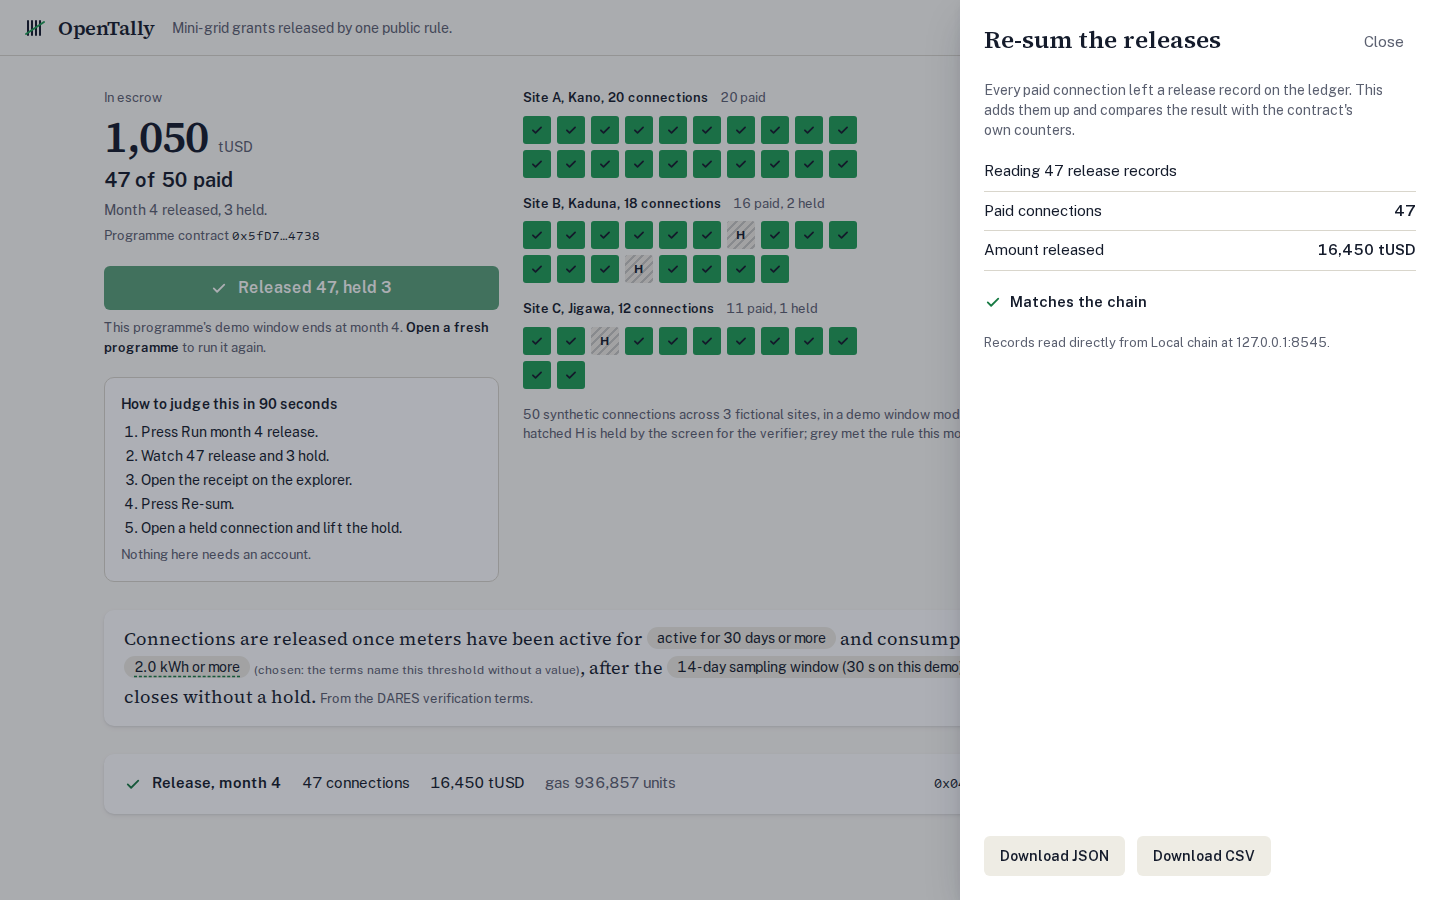
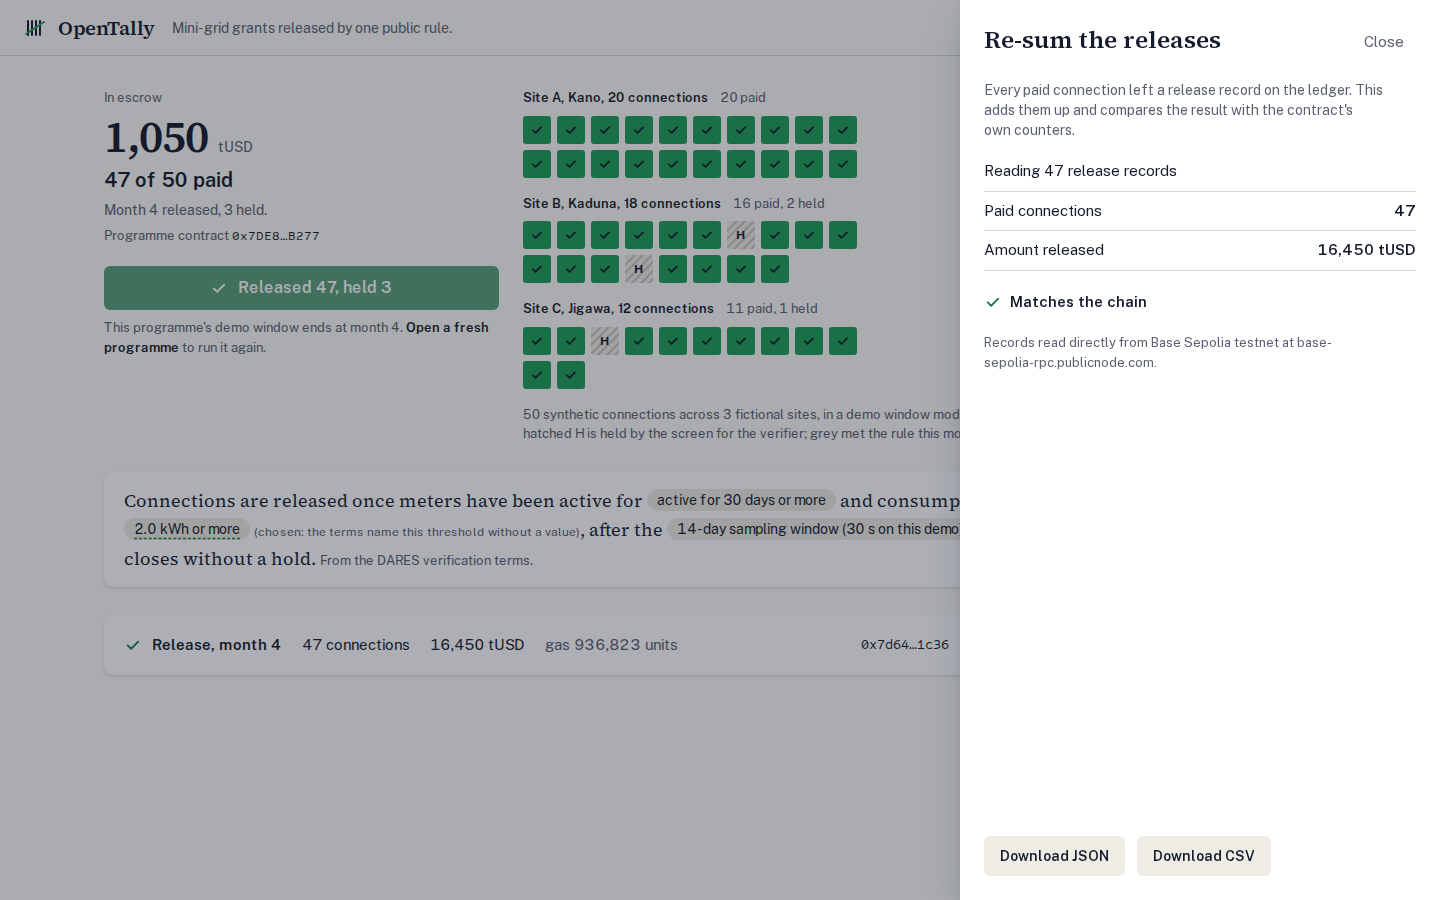
Screenshots on Base Sepolia, explorer named from its URL, contract addresses and verified source in the README

diff --git a/web/src/components/Tally.tsx b/web/src/components/Tally.tsx
@@ -16,6 +16,8 @@ const STEP_NAMES = ["Verifying 50 site-signed summaries", "Screening traces agai
 function fmt(n: number, digits = 0) { return n.toLocaleString("en-US", { maximumFractionDigits: digits, minimumFractionDigits: digits }); }
 function short(h: string) { return h.length > 12 ? `${h.slice(0, 6)}…${h.slice(-4)}` : h; }
 
+const explorerName = (url: string) => url.includes("basescan") ? "Basescan" : url.includes("etherscan") ? "Etherscan" : "the explorer";
+
 export function Tally({ initial, error, demoMonth, judgeCard, record = false, preview = null }: Props) {
   const [state, setState] = useState<TallyState | null>(preview?.state ?? initial);
   const [stale, setStale] = useState<string | null>(preview?.stale ?? error ?? null);
@@ -248,7 +250,7 @@ export function Tally({ initial, error, demoMonth, judgeCard, record = false, pr
             <span className="font-mono text-sm">{short(r.txHash)}</span>
             <button type="button" className="h-8 px-2.5 rounded-md text-ink-muted text-sm hover:bg-surface-2" onClick={() => navigator.clipboard?.writeText(r.txHash)}>Copy hash</button>
             {!preview && <Resum programme={state.instance} fromBlock={state.fromBlock} rpc={state.publicRpc} chainId={state.chainId} network={state.network} logSpan={state.logSpan} />}
-            {state.explorer ? <a className="text-sm font-semibold no-underline flex items-center gap-1.5" href={`${state.explorer}/tx/${r.txHash}`} target="_blank" rel="noreferrer">View on Sepolia <span aria-hidden="true">↗</span></a> : <span className="text-sm text-ink-muted">local chain</span>}
+            {state.explorer ? <a className="text-sm font-semibold no-underline flex items-center gap-1.5" href={`${state.explorer}/tx/${r.txHash}`} target="_blank" rel="noreferrer">View on {explorerName(state.explorer)} <span aria-hidden="true">↗</span></a> : <span className="text-sm text-ink-muted">local chain</span>}
           </div>
         ))}
         {(running || events.length > 0) && (

diff --git a/README.md b/README.md
@@ -20,6 +20,18 @@ A results-based financing programme pays a mini-grid developer a fixed grant for
 
 Press **Run month 4 release** on the first screen. You will see 50 site-signed summaries verified (one refused first for a wrong site key), 3 connections held (two identical meters and one flat one), 47 released in one transaction, and the receipt. Then press **Re-sum**, and open a held connection to lift its hold. Nothing needs an account. Each visitor gets a fresh programme; your run stays at its own address.
 
+## On chain
+
+Base Sepolia testnet (chain 84532). Source verified on Sourcify.
+
+| Contract | Address |
+|---|---|
+| OpenTallyFactory | [0x57a62103b0de09a65d84ecf90984ff597085fa75](https://sepolia.basescan.org/address/0x57a62103b0de09a65d84ecf90984ff597085fa75) ([source](https://sourcify.dev/server/repo-ui/84532/0x57a62103b0de09a65d84ecf90984ff597085fa75)) |
+| TestUSD (tUSD) | [0x0c491dbab75025e2b6f318e6daf3ce98b5a538c2](https://sepolia.basescan.org/address/0x0c491dbab75025e2b6f318e6daf3ce98b5a538c2) ([source](https://sourcify.dev/server/repo-ui/84532/0x0c491dbab75025e2b6f318e6daf3ce98b5a538c2)) |
+| A released programme | [0x7DE8B364d4Cdf35cccC902040dDDbb0c9100B277](https://sepolia.basescan.org/address/0x7DE8B364d4Cdf35cccC902040dDDbb0c9100B277): 47 of 50 paid, 16,450 tUSD |
+
+Each visitor's programme is a fresh instance created by the factory; its address is shown on the first screen.
+
 ## What is real and what is not
 
 | Part | Status |
